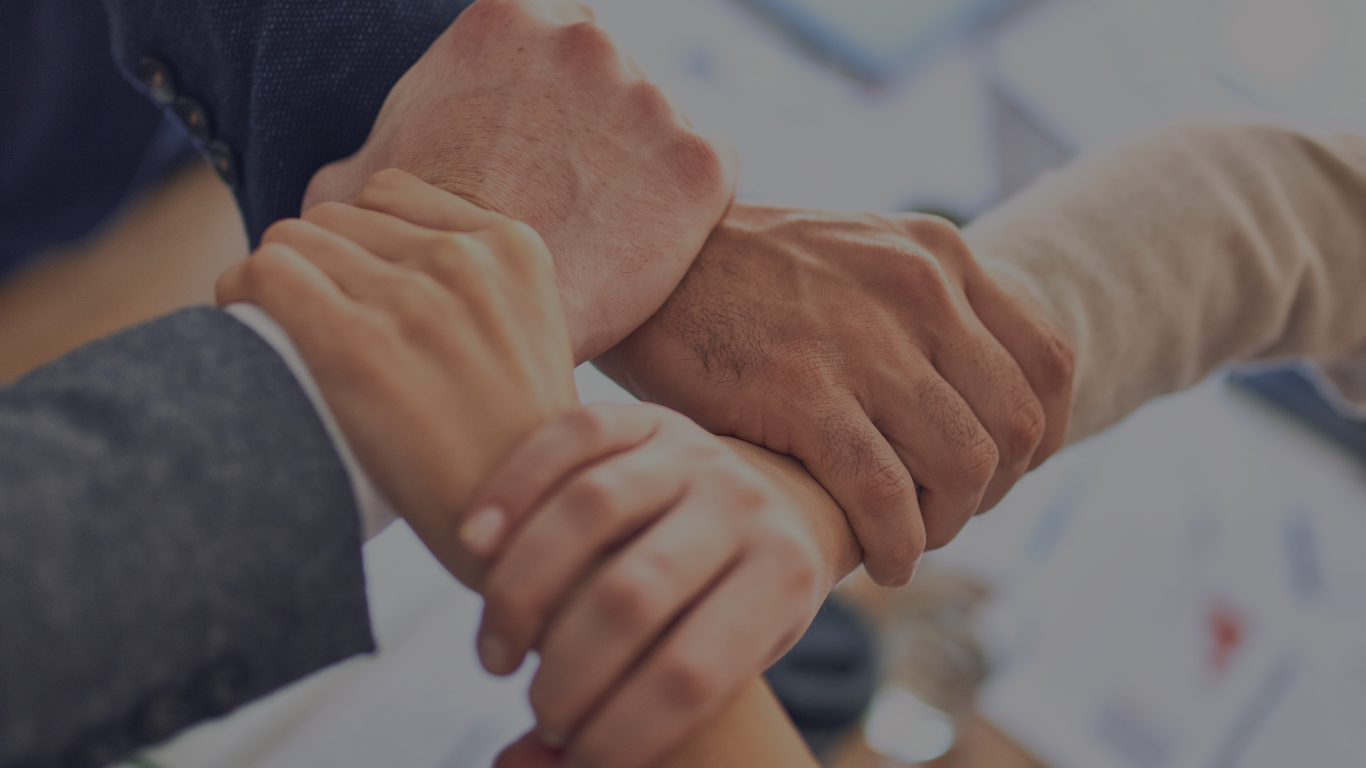
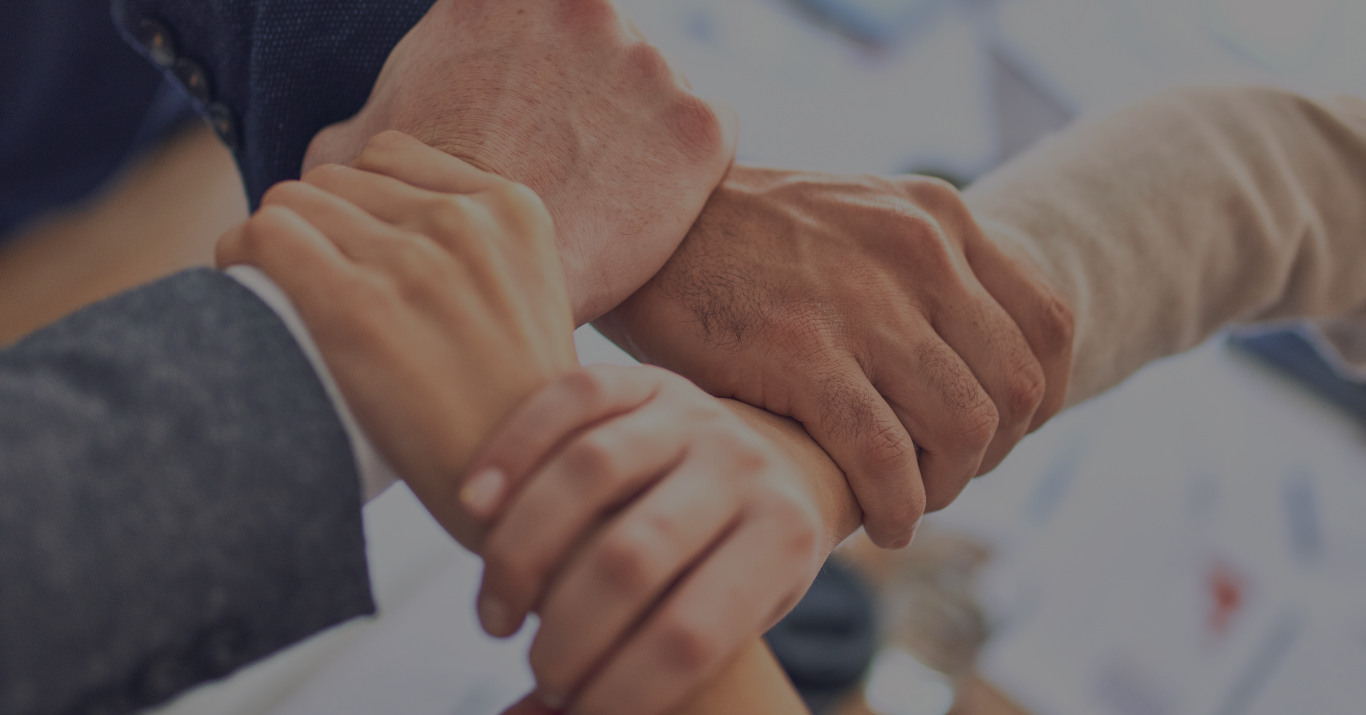
:iphone: criação de um arquivo de media queries e alterações para responsividade do site.

diff --git a/index.html b/index.html
@@ -21,8 +21,9 @@
     <script src="index.html" defer></script>
 
     <link rel="stylesheet" href="styleIndex.css" >
+    <link rel="stylesheet" href="./index-media-queries.css">
     <link rel="shortcut icon" href="favicon.ico" type="image/x-icon" >
-    <title>Projeto Modulo 2</title>
+    <title>Projeto Módulo 2</title>
 </head>
 <body>
   <div class="container">
@@ -104,12 +105,12 @@
       </figure>
     </section>
 
-    <section class= "d-flex flex-column align-items-center vh-100">
+    <section class= "d-flex flex-column align-items-center vh-50">
       <h2 class="d-flex flex-row justify-content-center"><strong>
         Nossos diferenciais
       </strong></h2>
 
-      <div class="container-fluid d-flex flex-row justify-content-center align-items-center mt-5">
+      <div class="container-fluid d-flex flex-row justify-content-center align-items-center mt-5" id="diferenciais-container">
 
         <div class="d-flex flex-column align-items-center justify-content-center w-25">
           <img src="assets/undraw_studying_re_deca.svg" alt="Mulher estudando" width="200" height="200">
@@ -137,7 +138,7 @@
       
     </section>
 
-    <section class="vh-100">
+    <section class="mt-5">
 
       <div id="carousel" class="carousel slide" data-bs-ride="carousel">
 
@@ -154,7 +155,7 @@
 
         <div class="carousel-inner">
           <div class="carousel-item active">
-            <img src="assets/slide1.png" alt="Mãos" class="d-block w-100 vh-100">
+            <img src="assets/slide1-edt.png" alt="Mãos" class="d-block w-100 mh-100">
             <div class="carousel-caption">
               <h2>Nossa visão</h2>
               <p>Nós entendemos que a educação é a chave para a melhoria dos espaços de convívio social e, consequentemente, o progresso de um país.
@@ -163,7 +164,7 @@
           </div>
 
           <div class="carousel-item">
-            <img src="assets/slide2.png" alt="Pessoas programando." class="d-block w-100 vh-100">
+            <img src="assets/slide2-edt.png" alt="Pessoas programando." class="d-block w-100 mh-100">
             <div class="carousel-caption">
               <h2>Nossa missão</h2>
               <p>
@@ -173,7 +174,7 @@
           </div>
 
           <div class="carousel-item">
-            <img src="assets/slide3.png" alt="Aperto de mão." class="d-block w-100 vh-100">
+            <img src="assets/slide3-edt.png" alt="Aperto de mão." class="d-block w-100 mh-100">
             <div class="carousel-caption">
               <h2>Nossos valores</h2>
               <p>

diff --git a/index-media-queries.css b/index-media-queries.css
@@ -1,0 +1,10 @@
+@media (max-width: 700px) {
+    #diferenciais-container {
+        flex-direction: column !important;
+    }
+
+    #diferenciais-container div p {
+        margin-left: 0;
+        margin-right: 0;
+    }
+}
